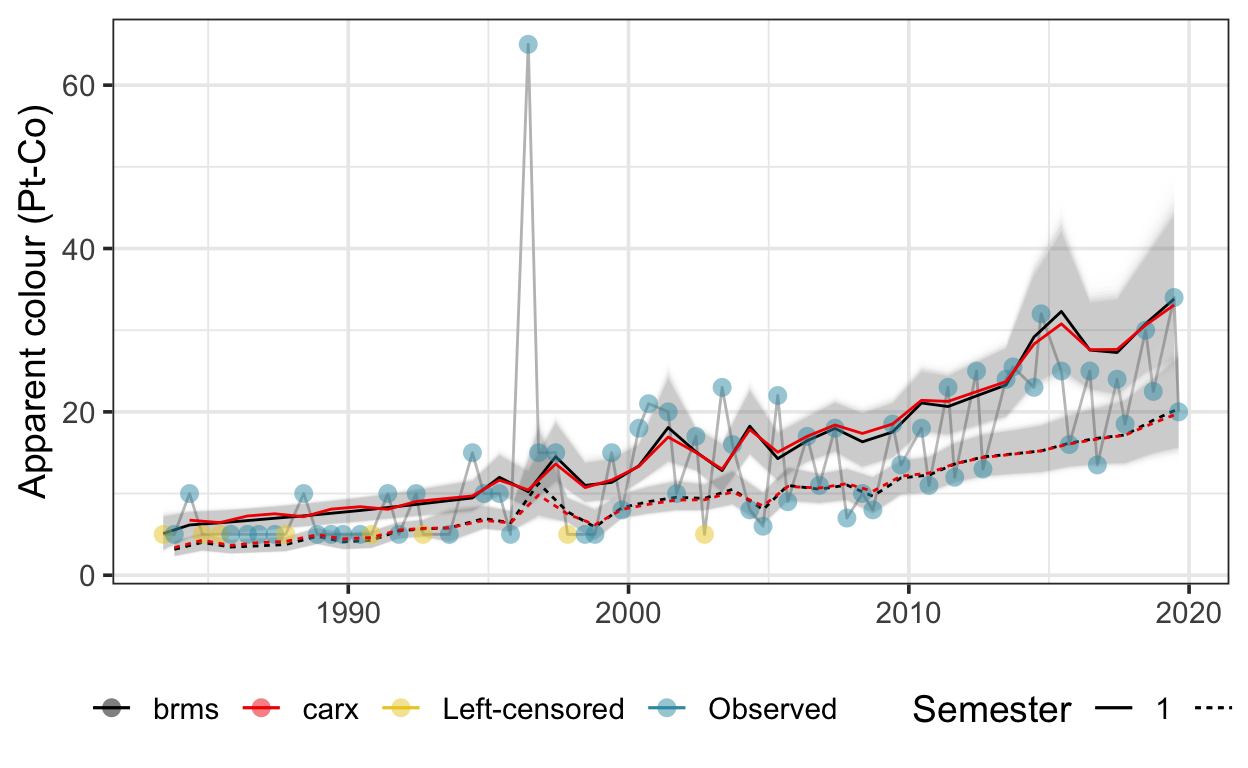
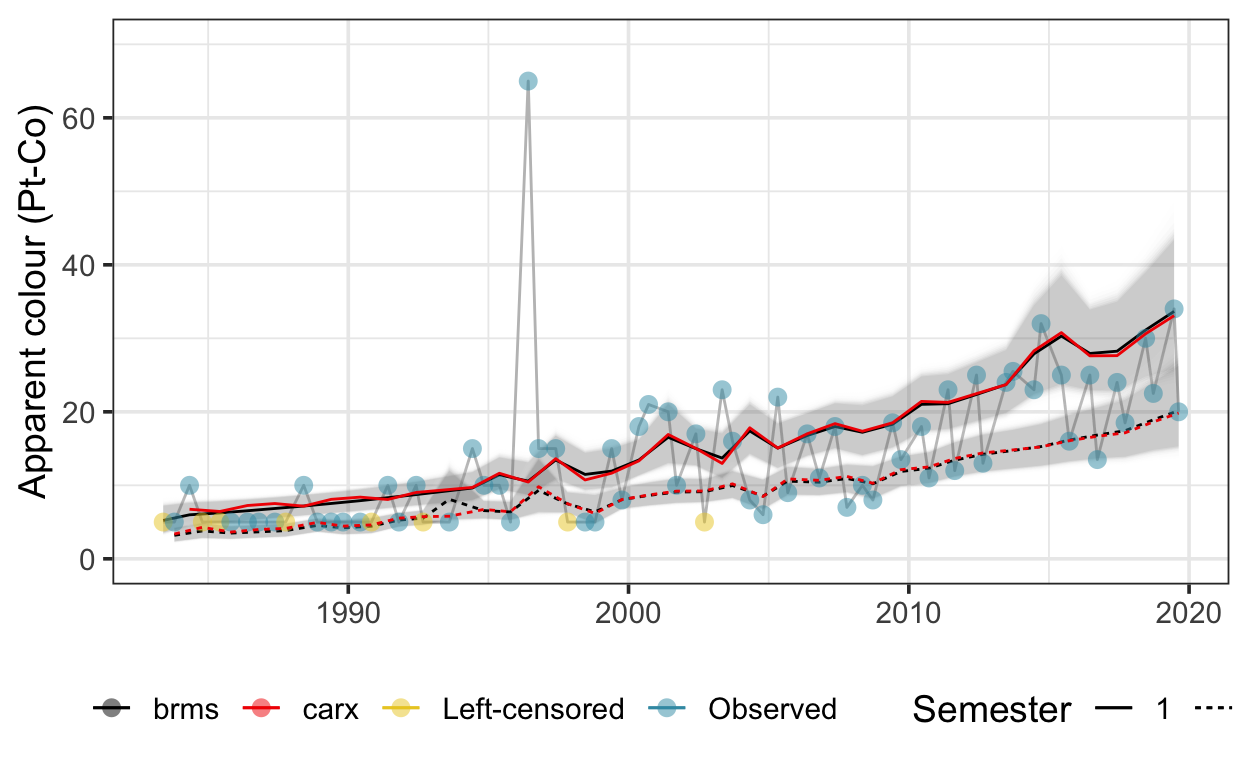
new draft

Changed region(s): [[0.0312, 0.2812, 0.9688, 0.75], [0.0312, 0.0312, 0.9688, 0.2812], [0.9062, 0.5312, 0.9375, 0.5625]]

diff --git a/_posts/2021-09-08-a-brownification-pause/a-brownification-pause.html b/_posts/2021-09-08-a-brownification-pause/a-brownification-pause.html
@@ -1495,8 +1495,8 @@ code span.wa { color: #5e5e5e; font-style: italic; } /* Warning */
 <div class="layout-chunk" data-layout="l-body">
 
 </div>
-<p>In the series, 10% of apparent colour values—those below 5 Pt-Co—are left-censored. To generate a regularly spaced time series, I aggregated the data into semesters by taking medians, and I excluded values collected before 1983. When aggregation into semesters required taking the midpoint of a left-censored and an observed value, the output was left-censored at the midpoint between the observed value and the censoring limit.</p>
-<p>I chose to handle missing values by left-censoring them at a limit of positive infinity. The response was log-transformed prior to fitting the model, and the matrix of covariates comprised a cubic regression spline basis expansion of the time variable using <code>splines::bs()</code> with 4 degrees of freedom. The model also included semester as a binary covariate to account for seasonal variation.</p>
+<p>In the series, 10% of apparent colour values—those below 5 Pt-Co—are left-censored. To generate a regularly spaced time series, I aggregated the data into semesters by taking medians, and I excluded values collected before 1983. When aggregation required taking the midpoint of a left-censored and an observed value, the output was left-censored at the midpoint between the observed value and the censoring limit.</p>
+<p>I chose to handle missing values by left-censoring them at a limit of positive infinity, as implemented in <code>carx()</code>. The response was log-transformed prior to fitting the model, and the matrix of covariates comprised a cubic regression spline basis expansion of the time variable using <code>splines::bs()</code> with 4 degrees of freedom. The model also included semester as a binary covariate to account for seasonal variation.</p>
 <div class="layout-chunk" data-layout="l-body">
 
 </div>
@@ -1517,17 +1517,26 @@ code span.wa { color: #5e5e5e; font-style: italic; } /* Warning */
 <div class="layout-chunk" data-layout="l-body">
 <p><img src="a-brownification-pause_files/figure-html5/r-vs-time-1.png" width="624" /></p>
 </div>
-<p>But overall, there’s not much evidence here that the GAM describes this particular series any better than the linear model. And a GAM fit using <code>brms</code> (“Bayesian Regression Models using Stan”)—which accomodates both left-censoring and autoregression—yielded similar results. Here is a sketch of the model one might fit using <code>brms::brm()</code>. Basic diagnostic plots suggest that this model needs work, but it is worth noting that it yields a smooth curve that differs little from the censored autogregression with linear time covariate. Fitted values from the latter model—including the AR(1) component—are superimposed in red on the following plot.</p>
+<p>But overall, there’s not much evidence here that the GAM describes this particular series any better than the linear model. And a GAM fit using <code>brms</code> (“Bayesian Regression Models using Stan”)—which accomodates both left-censoring and autoregression—yielded similar results. Here is a sketch of the model one might fit using <code>brms::brm()</code>; missing values are left-censored at the maximum observed value of the series. While I haven’t fully evaluated the fit of this model, it is worth noting that it yields a smooth curve that differs little from the censored autogregression with linear time covariate. Fitted values from the latter model—including the AR(1) component—are superimposed in red on the following plot.</p>
 <div class="layout-chunk" data-layout="l-body">
 <div class="sourceCode">
-<pre class="sourceCode r"><code class="sourceCode r"><span class='va'>model_in_brms</span> <span class='op'>&lt;-</span> <span class='va'>model_in</span> <span class='op'>%&gt;%</span> 
-  <span class='fu'>mutate</span><span class='op'>(</span>censored <span class='op'>=</span> <span class='fu'>if_else</span><span class='op'>(</span><span class='va'>ci</span> <span class='op'>==</span> <span class='op'>-</span><span class='fl'>1</span>, <span class='st'>"left"</span>, <span class='st'>"none"</span><span class='op'>)</span><span class='op'>)</span>
+<pre class="sourceCode r"><code class="sourceCode r"><span class='fu'>future</span><span class='fu'>::</span><span class='fu'><a href='https://future.futureverse.org/reference/plan.html'>plan</a></span><span class='op'>(</span><span class='st'>"multisession"</span><span class='op'>)</span> <span class='co'># for parallelization</span>
+
+<span class='va'>model_in_brms</span> <span class='op'>&lt;-</span> <span class='va'>model_in</span> <span class='op'>%&gt;%</span> 
+  <span class='fu'>mutate</span><span class='op'>(</span>
+    <span class='co'># left-censor missing values at the maximum value of the series</span>
+    ci <span class='op'>=</span> <span class='fu'>replace_na</span><span class='op'>(</span><span class='va'>ci</span>, <span class='op'>-</span><span class='fl'>1</span><span class='op'>)</span>,
+    value <span class='op'>=</span> <span class='fu'>replace_na</span><span class='op'>(</span><span class='va'>value</span>, <span class='fu'><a href='https://rdrr.io/r/base/Extremes.html'>max</a></span><span class='op'>(</span><span class='va'>value</span>, na.rm <span class='op'>=</span> <span class='cn'>TRUE</span><span class='op'>)</span><span class='op'>)</span>,
+    censored <span class='op'>=</span> <span class='fu'>if_else</span><span class='op'>(</span><span class='va'>ci</span> <span class='op'>==</span> <span class='op'>-</span><span class='fl'>1</span>, <span class='st'>"left"</span>, <span class='st'>"none"</span><span class='op'>)</span>
+  <span class='op'>)</span>
 
 <span class='va'>model_brms</span> <span class='op'>&lt;-</span> <span class='fu'><a href='https://rdrr.io/pkg/brms/man/brm.html'>brm</a></span><span class='op'>(</span>
   <span class='fu'><a href='https://rdrr.io/pkg/brms/man/brmsformula.html'>bf</a></span><span class='op'>(</span><span class='fu'><a href='https://rdrr.io/r/base/Log.html'>log</a></span><span class='op'>(</span><span class='va'>value</span><span class='op'>)</span> <span class='op'>|</span> <span class='fu'>cens</span><span class='op'>(</span><span class='va'>censored</span><span class='op'>)</span> <span class='op'>~</span>
        <span class='fu'><a href='https://rdrr.io/pkg/brms/man/s.html'>s</a></span><span class='op'>(</span><span class='va'>numeric_date</span><span class='op'>)</span> <span class='op'>+</span> <span class='va'>sem</span> <span class='op'>+</span> <span class='fu'><a href='https://rdrr.io/pkg/brms/man/ar.html'>ar</a></span><span class='op'>(</span>time <span class='op'>=</span> <span class='va'>numeric_date</span>, p <span class='op'>=</span> <span class='fl'>1</span><span class='op'>)</span><span class='op'>)</span>,
   data <span class='op'>=</span> <span class='va'>model_in_brms</span>,
-  control <span class='op'>=</span> <span class='fu'><a href='https://rdrr.io/r/base/list.html'>list</a></span><span class='op'>(</span>adapt_delta <span class='op'>=</span> <span class='fl'>.999</span><span class='op'>)</span>
+  control <span class='op'>=</span> <span class='fu'><a href='https://rdrr.io/r/base/list.html'>list</a></span><span class='op'>(</span>adapt_delta <span class='op'>=</span> <span class='fl'>.999</span><span class='op'>)</span>,
+  seed <span class='op'>=</span> <span class='fl'>3152</span>,
+  future <span class='op'>=</span> <span class='cn'>TRUE</span> <span class='co'># for parallelization</span>
 <span class='op'>)</span>
 </code></pre>
 </div>
@@ -1538,7 +1547,7 @@ code span.wa { color: #5e5e5e; font-style: italic; } /* Warning */
 <div class="layout-chunk" data-layout="l-body">
 <p><img src="a-brownification-pause_files/figure-html5/model-preds-1.png" width="624" /></p>
 </div>
-<p>Both the <code>brms</code> and <code>carx</code> models also yielded similar estimates of the AR(1) parameter: 0.21 for the censored autoregression (linear time covariate) and 0.28 for the Bayesian regression model. In percentage terms, the two approaches differ mainly in the predictions over the first part of the series, where most of the censored observations were recorded.</p>
+<p>The <code>brms</code> and <code>carx</code> models also yielded similar estimates of the AR(1) parameter: 0.21 for the censored autoregression (linear time covariate) and 0.18 for the Bayesian regression model. In percentage terms, the two approaches differ mainly in the predictions over the first part of the series, where most of the censored observations were recorded.</p>
 <div class="sourceCode" id="cb1"><pre class="sourceCode r distill-force-highlighting-css"><code class="sourceCode r"></code></pre></div>
 <div id="refs" class="references csl-bib-body hanging-indent" role="doc-bibliography">
 <div id="ref-eklof_brownification_2021" class="csl-entry" role="doc-biblioentry">

diff --git a/docs/posts/2021-09-08-a-brownification-pause/index.html b/docs/posts/2021-09-08-a-brownification-pause/index.html
@@ -2134,8 +2134,8 @@ document.addEventListener('DOMContentLoaded', function() {
 <div class="layout-chunk" data-layout="l-body">
 
 </div>
-<p>In the series, 10% of apparent colour values—those below 5 Pt-Co—are left-censored. To generate a regularly spaced time series, I aggregated the data into semesters by taking medians, and I excluded values collected before 1983. When aggregation into semesters required taking the midpoint of a left-censored and an observed value, the output was left-censored at the midpoint between the observed value and the censoring limit.</p>
-<p>I chose to handle missing values by left-censoring them at a limit of positive infinity. The response was log-transformed prior to fitting the model, and the matrix of covariates comprised a cubic regression spline basis expansion of the time variable using <code>splines::bs()</code> with 4 degrees of freedom. The model also included semester as a binary covariate to account for seasonal variation.</p>
+<p>In the series, 10% of apparent colour values—those below 5 Pt-Co—are left-censored. To generate a regularly spaced time series, I aggregated the data into semesters by taking medians, and I excluded values collected before 1983. When aggregation required taking the midpoint of a left-censored and an observed value, the output was left-censored at the midpoint between the observed value and the censoring limit.</p>
+<p>I chose to handle missing values by left-censoring them at a limit of positive infinity, as implemented in <code>carx()</code>. The response was log-transformed prior to fitting the model, and the matrix of covariates comprised a cubic regression spline basis expansion of the time variable using <code>splines::bs()</code> with 4 degrees of freedom. The model also included semester as a binary covariate to account for seasonal variation.</p>
 <div class="layout-chunk" data-layout="l-body">
 
 </div>
@@ -2156,17 +2156,26 @@ document.addEventListener('DOMContentLoaded', function() {
 <div class="layout-chunk" data-layout="l-body">
 <p><img src="a-brownification-pause_files/figure-html5/r-vs-time-1.png" width="624" /></p>
 </div>
-<p>But overall, there’s not much evidence here that the GAM describes this particular series any better than the linear model. And a GAM fit using <code>brms</code> (“Bayesian Regression Models using Stan”)—which accomodates both left-censoring and autoregression—yielded similar results. Here is a sketch of the model one might fit using <code>brms::brm()</code>. Basic diagnostic plots suggest that this model needs work, but it is worth noting that it yields a smooth curve that differs little from the censored autogregression with linear time covariate. Fitted values from the latter model—including the AR(1) component—are superimposed in red on the following plot.</p>
+<p>But overall, there’s not much evidence here that the GAM describes this particular series any better than the linear model. And a GAM fit using <code>brms</code> (“Bayesian Regression Models using Stan”)—which accomodates both left-censoring and autoregression—yielded similar results. Here is a sketch of the model one might fit using <code>brms::brm()</code>; missing values are left-censored at the maximum observed value of the series. While I haven’t fully evaluated the fit of this model, it is worth noting that it yields a smooth curve that differs little from the censored autogregression with linear time covariate. Fitted values from the latter model—including the AR(1) component—are superimposed in red on the following plot.</p>
 <div class="layout-chunk" data-layout="l-body">
 <div class="sourceCode">
-<pre class="sourceCode r"><code class="sourceCode r"><span class='va'>model_in_brms</span> <span class='op'>&lt;-</span> <span class='va'>model_in</span> <span class='op'>%&gt;%</span> 
-  <span class='fu'>mutate</span><span class='op'>(</span>censored <span class='op'>=</span> <span class='fu'>if_else</span><span class='op'>(</span><span class='va'>ci</span> <span class='op'>==</span> <span class='op'>-</span><span class='fl'>1</span>, <span class='st'>"left"</span>, <span class='st'>"none"</span><span class='op'>)</span><span class='op'>)</span>
+<pre class="sourceCode r"><code class="sourceCode r"><span class='fu'>future</span><span class='fu'>::</span><span class='fu'><a href='https://future.futureverse.org/reference/plan.html'>plan</a></span><span class='op'>(</span><span class='st'>"multisession"</span><span class='op'>)</span> <span class='co'># for parallelization</span>
+
+<span class='va'>model_in_brms</span> <span class='op'>&lt;-</span> <span class='va'>model_in</span> <span class='op'>%&gt;%</span> 
+  <span class='fu'>mutate</span><span class='op'>(</span>
+    <span class='co'># left-censor missing values at the maximum value of the series</span>
+    ci <span class='op'>=</span> <span class='fu'>replace_na</span><span class='op'>(</span><span class='va'>ci</span>, <span class='op'>-</span><span class='fl'>1</span><span class='op'>)</span>,
+    value <span class='op'>=</span> <span class='fu'>replace_na</span><span class='op'>(</span><span class='va'>value</span>, <span class='fu'><a href='https://rdrr.io/r/base/Extremes.html'>max</a></span><span class='op'>(</span><span class='va'>value</span>, na.rm <span class='op'>=</span> <span class='cn'>TRUE</span><span class='op'>)</span><span class='op'>)</span>,
+    censored <span class='op'>=</span> <span class='fu'>if_else</span><span class='op'>(</span><span class='va'>ci</span> <span class='op'>==</span> <span class='op'>-</span><span class='fl'>1</span>, <span class='st'>"left"</span>, <span class='st'>"none"</span><span class='op'>)</span>
+  <span class='op'>)</span>
 
 <span class='va'>model_brms</span> <span class='op'>&lt;-</span> <span class='fu'><a href='https://rdrr.io/pkg/brms/man/brm.html'>brm</a></span><span class='op'>(</span>
   <span class='fu'><a href='https://rdrr.io/pkg/brms/man/brmsformula.html'>bf</a></span><span class='op'>(</span><span class='fu'><a href='https://rdrr.io/r/base/Log.html'>log</a></span><span class='op'>(</span><span class='va'>value</span><span class='op'>)</span> <span class='op'>|</span> <span class='fu'>cens</span><span class='op'>(</span><span class='va'>censored</span><span class='op'>)</span> <span class='op'>~</span>
        <span class='fu'><a href='https://rdrr.io/pkg/brms/man/s.html'>s</a></span><span class='op'>(</span><span class='va'>numeric_date</span><span class='op'>)</span> <span class='op'>+</span> <span class='va'>sem</span> <span class='op'>+</span> <span class='fu'><a href='https://rdrr.io/pkg/brms/man/ar.html'>ar</a></span><span class='op'>(</span>time <span class='op'>=</span> <span class='va'>numeric_date</span>, p <span class='op'>=</span> <span class='fl'>1</span><span class='op'>)</span><span class='op'>)</span>,
   data <span class='op'>=</span> <span class='va'>model_in_brms</span>,
-  control <span class='op'>=</span> <span class='fu'><a href='https://rdrr.io/r/base/list.html'>list</a></span><span class='op'>(</span>adapt_delta <span class='op'>=</span> <span class='fl'>.999</span><span class='op'>)</span>
+  control <span class='op'>=</span> <span class='fu'><a href='https://rdrr.io/r/base/list.html'>list</a></span><span class='op'>(</span>adapt_delta <span class='op'>=</span> <span class='fl'>.999</span><span class='op'>)</span>,
+  seed <span class='op'>=</span> <span class='fl'>3152</span>,
+  future <span class='op'>=</span> <span class='cn'>TRUE</span> <span class='co'># for parallelization</span>
 <span class='op'>)</span>
 </code></pre>
 </div>
@@ -2177,7 +2186,7 @@ document.addEventListener('DOMContentLoaded', function() {
 <div class="layout-chunk" data-layout="l-body">
 <p><img src="a-brownification-pause_files/figure-html5/model-preds-1.png" width="624" /></p>
 </div>
-<p>Both the <code>brms</code> and <code>carx</code> models also yielded similar estimates of the AR(1) parameter: 0.21 for the censored autoregression (linear time covariate) and 0.28 for the Bayesian regression model. In percentage terms, the two approaches differ mainly in the predictions over the first part of the series, where most of the censored observations were recorded.</p>
+<p>The <code>brms</code> and <code>carx</code> models also yielded similar estimates of the AR(1) parameter: 0.21 for the censored autoregression (linear time covariate) and 0.18 for the Bayesian regression model. In percentage terms, the two approaches differ mainly in the predictions over the first part of the series, where most of the censored observations were recorded.</p>
 <div class="sourceCode" id="cb1"><pre class="sourceCode r distill-force-highlighting-css"><code class="sourceCode r"></code></pre></div>
 <div id="refs" class="references csl-bib-body hanging-indent" role="doc-bibliography">
 <div id="ref-eklof_brownification_2021" class="csl-entry" role="doc-biblioentry">
